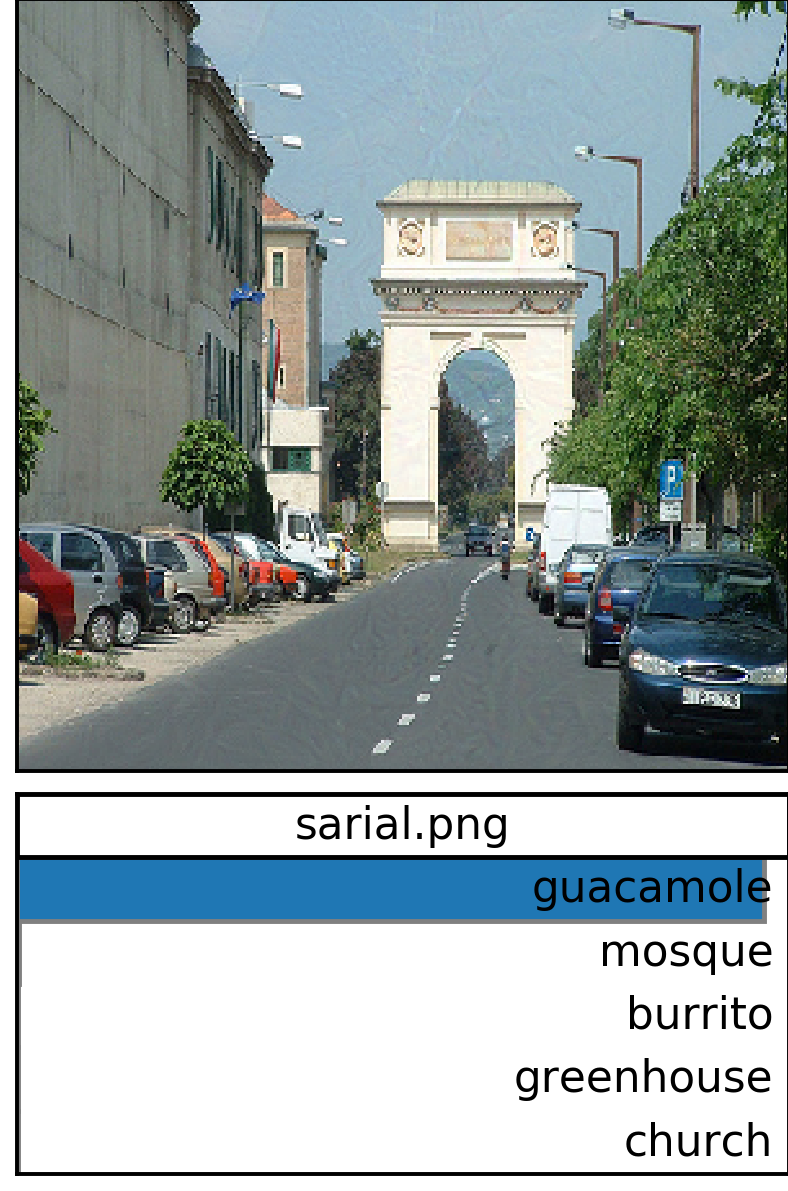
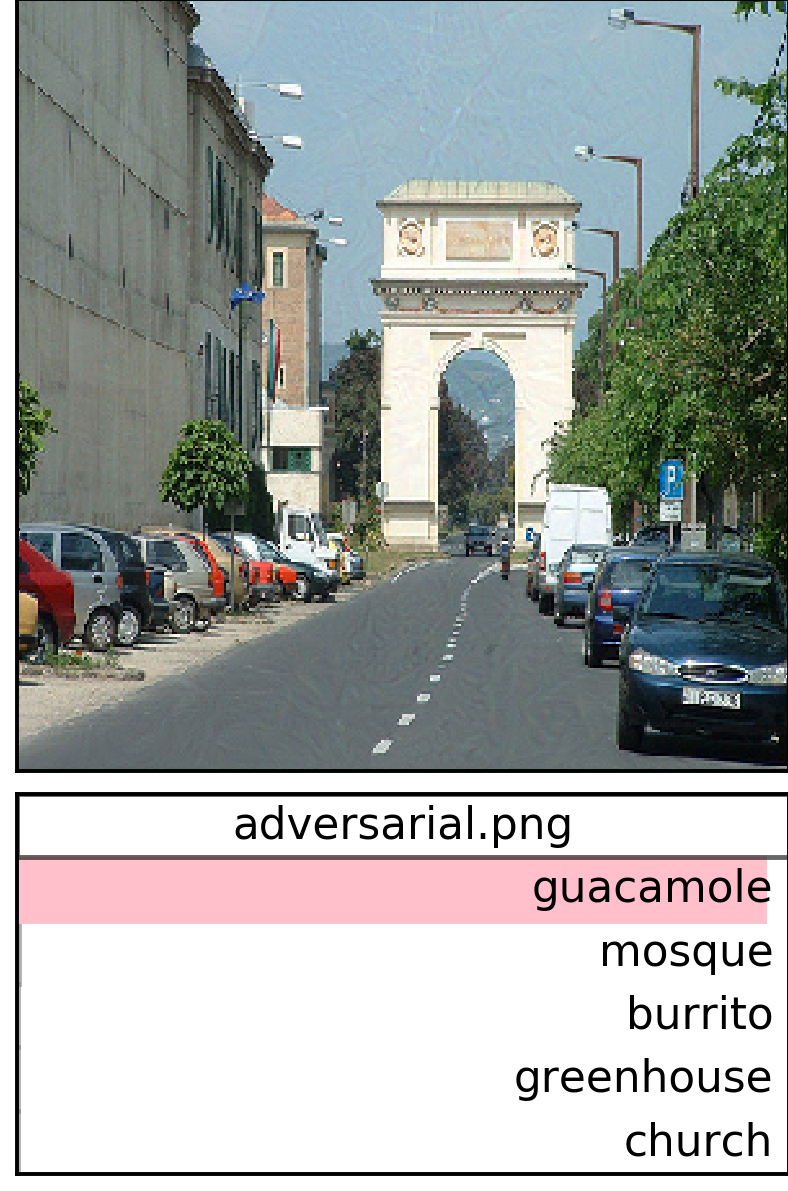
plot the example

Changed region(s): [[0.0, 0.6835, 1.0, 0.8388]]

diff --git a/plot_inception_v3_scores.py b/plot_inception_v3_scores.py
@@ -3,44 +3,21 @@
 import matplotlib
 matplotlib.use('agg')
 
-import numpy as np
 import os
 import errno
-import matplotlib.pyplot as plt
-from pylab import *
-import pylab
-import textwrap
-from mpl_toolkits.axes_grid1 import AxesGrid
-from PIL import Image
-
 from tqdm import tqdm
 import argparse
-import pdb
+# import textwrap
+# import pdb
+
+import matplotlib.pyplot as plt
+import pylab
+from mpl_toolkits.axes_grid1 import AxesGrid
+from PIL import Image
 
 import tensorflow as tf
 import inceptionv3
 import utils
-
-
-# net = models.inception_v3(pretrained=True)
-
-# def applyModel299(file_path, model):
-#     preprocess = transforms.Compose([
-#         transforms.ToTensor(),
-#         transforms.Normalize(mean=[0.485, 0.456, 0.406], std=[0.229, 0.224, 0.225]),])
-
-#     pil_img = Image.open(file_path)
-#     img = preprocess(pil_img)
-#     # pdb.set_trace()
-#     img = img[None, :, :, :]
-#     model.eval()
-#     out = model(img)
-
-#     scores = torch.nn.functional.softmax(out, dim=1)
-#     pdb.set_trace()
-
-#     return pil_img, scores[0].detach().numpy() # output, PIL png image, numpy array length 1000
-
 
 def prepareTensorflowModel():
     sess = tf.Session()
@@ -64,7 +41,6 @@ def classifyImage(path_input):
   return input_image, prediction
 
 def drawImage(input_image, prediction):
-  #plt.subplot(211)
   plt.subplot2grid((3,1), (0,0), rowspan=2)
 
   # Now print out the image and the probability
@@ -81,10 +57,10 @@ def getPredictions(prediction, lines, ground_truth):
     line = line.strip('\n')
 
     words = line.split(' ', 1)
-    cat_id = words[0]
+    # cat_id = words[0]
     cat_desc = words[1].split(',', 1)[0]
     cat_desc_list = cat_desc.split(' ')
-    # no text wrap, just use first and last word combine
+    # use first and last word combine
     if len(cat_desc_list) == 1:
         cat_desc_short = cat_desc_list[0]
     else:
@@ -109,7 +85,7 @@ def getPredictions(prediction, lines, ground_truth):
   return (val[:6], labels[:6])
 
 
-def drawPredictions(values, labels):
+def drawPredictions(values, labels, wrong_label=None):
   ax = plt.subplot2grid((3,1), (2,0))
   ax.margins(y=0)
   pos = pylab.arange(6)    # the bar centers on the y axis
@@ -124,14 +100,21 @@ def drawPredictions(values, labels):
 
   # Lastly, write in the ranking inside each bar to aid in interpretation
   for rid, rect in enumerate(rects):
-    width = int(rect.get_width())
 
     align = 'right'
     xloc = 0.98
     clr = 'black'
-    w = labels[rid].split(",")
-    shorten_label = w[0]
-    wrapped_label = '\n'.join(textwrap.wrap(shorten_label, 25)) 
+
+    # TODO change the color to shallow blue, rect.set_color("?")
+    # add TARGET, if label equals certain name, gives pink color
+    if wrong_label and wrong_label == labels[rid]:
+        rect.set_color('pink')
+    else:
+        rect.set_alpha(0.6)
+
+    # w = labels[rid].split(",")
+    # shorten_label = w[0]
+    # wrapped_label = '\n'.join(textwrap.wrap(shorten_label, 25)) 
 
     # Center the text vertically in the bar
     yloc = rect.get_y()+rect.get_height()/2.0
@@ -144,19 +127,19 @@ def drawPredictions(values, labels):
       align = 'center'
 
     # No stroke
-    pylab.text(xloc, yloc, wrapped_label, horizontalalignment=align,
+    # pylab.text(xloc, yloc, wrapped_label, horizontalalignment=align,
+    pylab.text(xloc, yloc, labels[rid], horizontalalignment=align,
         verticalalignment='center', color=clr, weight='normal', size='9')
 
 
-def generatePlot(input_dir, file_name, output_dir, lines, ground_truth):
+def generatePlot(input_dir, file_name, output_dir, lines, ground_truth, wrong_label=None):
   # pdb.set_trace()
   path_input = input_dir + "/" + file_name  # Image to classify
-  # path_save_file = output_dir + "/results/" + file_name
   path_save_file = output_dir + "/" + file_name
 
   image, prediction = classifyImage(path_input)
 
-  fig = plt.figure(figsize=(4.5, 7.5),facecolor='w') 
+  fig = plt.figure(figsize=(4.5, 7.5),facecolor='w')
 
   AxesGrid(fig, 111, # similar to subplot(141)
       nrows_ncols = (2, 1),
@@ -167,20 +150,19 @@ def generatePlot(input_dir, file_name, output_dir, lines, ground_truth):
   values, labels = getPredictions(prediction, lines, ground_truth)
 
   # print labels
-  drawPredictions(values, labels)
+  drawPredictions(values, labels, wrong_label)
 
   drawImage(image, prediction)
 
   fig.subplots_adjust(left=0.01, bottom=0.501, top=0.95, right=0.5, wspace = 0.05, hspace = 0.05)
 
-  # Save as image instead of pop-up 
+  # Save as image instead of pop-up
   plt.savefig(path_save_file, bbox_inches='tight', dpi=350, pad_inches=0)
   plt.close()
   # print "Saved to file: ", path_save_file
 
   return None
 
-# ---- Main function -----  
 if __name__ == '__main__':
 
   ########## start options process
@@ -190,6 +172,7 @@ if __name__ == '__main__':
   parser.add_argument('-o', '--output_dir', type=str, default="/Users/cwang/projects/sparse_representation/example/output")
   parser.add_argument('-s', '--synset_dir', type=str, default="/Users/cwang/projects/sparse_representation/example")
   parser.add_argument('-n', '--ignore_prefix', type=int, default=1)
+  parser.add_argument('-t', '--wrong_label', type=str, default='guacamole')
   args = parser.parse_args()
 
   input_dir = os.path.abspath(args.input_dir)
@@ -225,6 +208,8 @@ if __name__ == '__main__':
 
   number = len(file_list)
   for i in tqdm(range(number)):
-      generatePlot(input_dir, file_list[i], output_dir, lines, file_list[i][5:])
-
+      if args.ignore_prefix:
+        generatePlot(input_dir, file_list[i], output_dir, lines, file_list[i], args.wrong_label)
+      else:
+        generatePlot(input_dir, file_list[i], output_dir, lines, file_list[i][5:])
 
